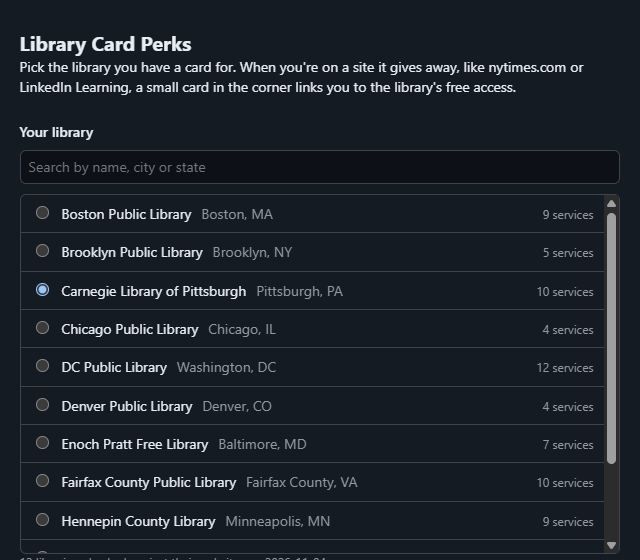
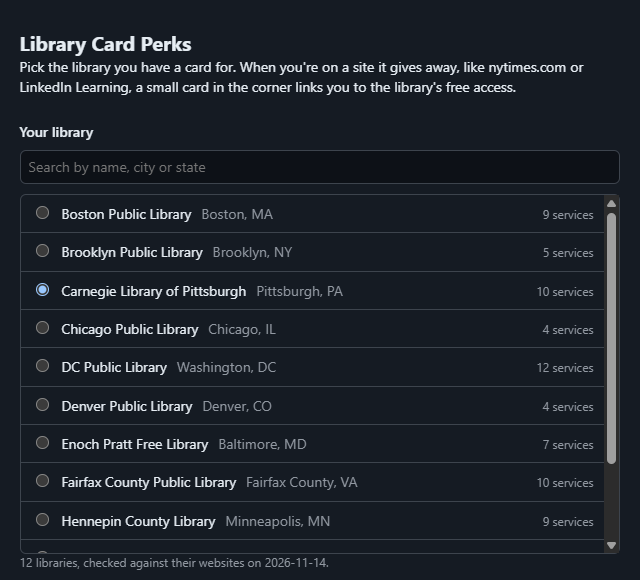
Fix the popup's site section, the daily card and three libraries
The popup now has activeTab, so it can read the address of the tab it
opens over. Before, "On this site" never appeared, and a site muted from
the card could not be turned back on. A new e2e check opens the popup
the way a toolbar click does.

The card checks again when Back or Forward restores a page, so the badge
comes back. It also waits until a prerendered page is opened, so a page
nobody saw no longer uses up the day's card. "Once a day" now follows
the local date instead of UTC midnight, which fell in the evening in US
time zones. Each site's day is stored under its own key, so two tabs
loading together no longer forget one site.

The library data is regenerated. Fairfax's homework help is Brainfuse
HelpNow, not VetNow. DC's New York Times and Washington Post entries
point at the Digital site passes instead of the article databases. San
Francisco now also reads its eLearning page and gains six services.

Smaller fixes: settings says "1 service", the dark save button is
readable, the settings screenshot is no longer cut off, the unused
text.js and today export are gone, the refresh workflow moves to
checkout and setup-node v7, and the README and package.json now ask for
Node 22, since npm test does not run on Node 20 on Windows.

Changed region(s): [[0.0312, 0.2125, 0.9688, 1.0], [0.0312, 0.0607, 0.9062, 0.1821]]

diff --git a/test/e2e/run.js b/test/e2e/run.js
@@ -86,7 +86,7 @@ try {
   check('picking it saves it', saved === 'Saved: Carnegie Library of Pittsburgh.', saved);
   if (screenshotDir) {
     await tab.evaluate(`(() => { const f = document.getElementById('filter'); f.value = ''; f.dispatchEvent(new Event('input')); document.getElementById('status').textContent = ''; })()`);
-    const clip = await tab.evaluate(`(() => { const r = document.body.getBoundingClientRect(); return { x: r.x, y: 0, width: r.width, height: 560, scale: 1 }; })()`);
+    const clip = await tab.evaluate(`(() => { const r = document.body.getBoundingClientRect(); return { x: r.x, y: 0, width: r.width, height: 580, scale: 1 }; })()`);
     const { data: png } = await tab.send('Page.captureScreenshot', { format: 'png', clip });
     writeFileSync(join(root, screenshotDir, 'settings.png'), Buffer.from(png, 'base64'));
   }
@@ -101,6 +101,19 @@ try {
     const { data: png } = await tab.send('Page.captureScreenshot', { format: 'png', clip: { x: 0, y: 0, width: 1100, height: 760, scale: 0.8 } });
     writeFileSync(join(root, screenshotDir, 'nytimes.png'), Buffer.from(png, 'base64'));
   }
+
+  // The popup, opened the way a click on the toolbar button opens it, knows which site it's over.
+  await tab.send('Page.bringToFront');
+  const { targetInfos: openTabs } = await chrome.send('Target.getTargets', { filter: [{ type: 'tab' }] });
+  await chrome.send('Extensions.triggerAction', { id: extensionId, targetId: openTabs.find((t) => t.url.includes('nytimes.com')).targetId });
+  const toolbarPopup = await waitFor(async () => (await chrome.send('Target.getTargets')).targetInfos.find((t) => t.url.endsWith('/popup/popup.html')), { label: 'toolbar popup' });
+  const { sessionId: popupSession } = await chrome.send('Target.attachToTarget', { targetId: toolbarPopup.targetId, flatten: true });
+  const here = await waitFor(async () => {
+    const { result } = await chrome.send('Runtime.evaluate', { expression: `[...document.querySelectorAll('#here li')].map((li) => li.firstChild.firstChild.textContent + ' -> ' + li.querySelector('a').href)`, returnByValue: true }, popupSession);
+    return result.value?.length ? result.value : null;
+  }, { label: 'popup on nytimes.com', timeout: 4000 }).catch(() => null);
+  check('popup on nytimes.com: what’s free on this site', JSON.stringify(here) === JSON.stringify(expected), `${JSON.stringify(here)} vs ${JSON.stringify(expected)}`);
+  await chrome.send('Target.closeTarget', { targetId: toolbarPopup.targetId });
 
   // Once a day per site.
   await tab.open('https://www.nytimes.com/2026/11/04/business/electricity-prices.html');
@@ -118,8 +131,8 @@ try {
   // The popup lists everything the card gets you. It also has the
   // extension's storage, used here to forget today's "already shown".
   const popup = await attach(`chrome-extension://${extensionId}/src/popup/popup.html`);
-  await waitFor(async () => popup.evaluate(`typeof chrome.storage?.local?.remove === 'function'`), { label: 'popup storage' });
-  await popup.evaluate(`chrome.storage.local.remove('shown')`);
+  await waitFor(async () => popup.evaluate(`typeof chrome.storage?.local?.clear === 'function'`), { label: 'popup storage' });
+  await popup.evaluate(`chrome.storage.local.clear()`);
   await tab.open('https://www.linkedin.com/learning/excel-essential-training');
   await sleep(1500);
   check('a muted site stays quiet on later visits', (await cardLines(tab.evaluate)) === null);
@@ -148,7 +161,7 @@ try {
     const text = await tab.evaluate(`document.getElementById('status').textContent`);
     return /Mt\. Lebanon/.test(text) ? text : null;
   }, { label: 'custom saved' }).catch(() => null);
-  check('a library typed in by hand saves', customSaved === 'Saved: Mt. Lebanon Public Library, 1 services.', customSaved);
+  check('a library typed in by hand saves', customSaved === 'Saved: Mt. Lebanon Public Library, 1 service.', customSaved);
   await tab.open('https://www.consumerreports.org/appliances/refrigerators/best-refrigerators');
   const cr = await waitFor(async () => cardLines(tab.evaluate), { label: 'card on Consumer Reports', timeout: 8000 }).catch(() => null);
   check('Consumer Reports: the typed-in link is used', cr?.[0] === 'Consumer Reports -> https://mtlebanon.example/consumer-reports', JSON.stringify(cr));

diff --git a/src/content/content.js b/src/content/content.js
@@ -68,7 +68,8 @@
   }
 
   async function check() {
-    if (location.pathname === lastPath) return;
+    // Chrome sometimes loads a page ahead of time, before anyone has opened it.
+    if (document.prerendering || location.pathname === lastPath) return;
     lastPath = location.pathname;
     try {
       const { library, offers = [] } = await chrome.runtime.sendMessage({ type: 'offers', hostname: location.hostname, pathname: location.pathname });
@@ -76,10 +77,11 @@
       const { hiddenSites = [] } = await chrome.storage.sync.get('hiddenSites');
       if (hiddenSites.includes(site)) return;
       // Once a day per site; the toolbar badge and the popup have it the rest of the time.
-      const day = new Date().toISOString().slice(0, 10);
-      const { shown = {} } = await chrome.storage.local.get('shown');
-      if (shown[site] === day) return;
-      await chrome.storage.local.set({ shown: { ...shown, [site]: day } });
+      const day = new Date().toDateString();
+      const key = `shown:${site}`;
+      const { [key]: last } = await chrome.storage.local.get(key);
+      if (last === day) return;
+      await chrome.storage.local.set({ [key]: day });
       render(library, offers);
     } catch {
       // The extension was reloaded or updated; this page's copy of the script is orphaned.
@@ -92,5 +94,13 @@
     clearTimeout(timer);
     timer = setTimeout(check, 500);
   }).observe(document.documentElement, { childList: true, subtree: true });
+  // A page loaded ahead of time gets its check when someone opens it.
+  document.addEventListener('prerenderingchange', check);
+  // Back and Forward bring a page back without running this again, and Chrome has cleared the badge by then.
+  addEventListener('pageshow', (event) => {
+    if (!event.persisted) return;
+    lastPath = null;
+    check();
+  });
   check();
 })();

diff --git a/test/build.test.js b/test/build.test.js
@@ -41,11 +41,24 @@ test('the shortest matching name wins over a sentence that mentions it', () => {
   assert.deepEqual(found.nyt, { label: 'New York Times', url: 'https://a.example/nyt' });
 });
 
+test('the pass for the paper’s own site beats the article database', () => {
+  const found = findResources(
+    [
+      ['New York Times', 'https://a.example/database'],
+      ['New York Times Digital', 'https://a.example/pass'],
+      ['New York Times Digital Microfilm', 'https://a.example/micro'],
+    ],
+    page,
+  );
+  assert.deepEqual(found.nyt, { label: 'New York Times Digital', url: 'https://a.example/pass' });
+});
+
 test('job help is not homework help, and a magazine pass is not hoopla', () => {
   const found = findResources(
     [
       ['Brainfuse JobNow', 'https://a.example/jobnow'],
       ['Brainfuse HelpNow', 'https://a.example/helpnow'],
+      ['Brainfuse VetNow', 'https://a.example/vetnow'],
       ['Hoopla Magazines BingePass', 'https://a.example/binge'],
     ],
     page,

diff --git a/src/shared.css b/src/shared.css
@@ -75,5 +75,5 @@ details { margin-top: 18px; }
 summary { cursor: pointer; }
 .fields { display: grid; grid-template-columns: 190px 1fr; gap: 8px 12px; align-items: center; margin-top: 12px; }
 .fields label { color: var(--muted); }
-button.save { margin-top: 12px; font: inherit; padding: 6px 14px; border-radius: 6px; border: 1px solid var(--line); background: var(--accent); color: #fff; cursor: pointer; }
+button.save { margin-top: 12px; font: inherit; padding: 6px 14px; border-radius: 6px; border: 1px solid var(--line); background: var(--accent); color: var(--bg); cursor: pointer; }
 #status { margin-top: 12px; color: var(--accent); min-height: 1.4em; }

diff --git a/src/lib/resources.js b/src/lib/resources.js
@@ -18,7 +18,7 @@ export const RESOURCES = {
   ancestry: { name: 'Ancestry Library Edition', match: /\bancestry\b/i, note: 'Usually only on library computers or library Wi-Fi.' },
   morningstar: { name: 'Morningstar Investment Research Center', match: /\bmorningstar\b/i },
   valueline: { name: 'Value Line', match: /\bvalue ?line\b/i },
-  tutor: { name: 'Live homework help', match: /\btutor\.com\b|\bbrainfuse\b|\bhelpnow\b/i, skip: /\bjob/i },
+  tutor: { name: 'Live homework help', match: /\btutor\.com\b|\bbrainfuse\b|\bhelpnow\b/i, skip: /\bjob|\bvet/i },
   pressreader: { name: 'PressReader', match: /\bpressreader\b/i },
 };
 

diff --git a/src/options/options.js b/src/options/options.js
@@ -61,7 +61,8 @@ async function init() {
     settings.library = 'custom';
     await chrome.storage.sync.set({ library: 'custom', custom: { name, links } });
     draw();
-    say(`Saved: ${name}, ${Object.keys(links).length} services.`);
+    const count = Object.keys(links).length;
+    say(`Saved: ${name}, ${count} ${count === 1 ? 'service' : 'services'}.`);
   });
 }
 

diff --git a/src/lib/perks.js b/src/lib/perks.js
@@ -29,5 +29,3 @@ export function offersFor(library, hostname, pathname) {
 
 // Everything the library gives away, in the order of RESOURCES.
 export const allOffers = (library) => (library ? Object.keys(RESOURCES).filter((key) => library.resources[key]).map((key) => offer(library, key)) : []);
-
-export const today = (now = new Date()) => now.toISOString().slice(0, 10);

diff --git a/README.md b/README.md
@@ -33,7 +33,7 @@ The list isn't typed in. `npm run data` reads each library's public list of onli
 
 Adding a library is one line in `scripts/libraries.json`.
 
-Everything runs locally. There's no server, it never sees your card number, and the only permission is `storage`.
+Everything runs locally. There's no server, it never sees your card number, and the only permissions are `storage` and `activeTab`, which lets the popup see which site you're on when you open it.
 
 ## Install
 
@@ -46,7 +46,7 @@ Not on the Chrome Web Store yet. To load it:
 ## Development
 
 ```bash
-npm test              # unit tests (Node 20+, no dependencies)
+npm test              # unit tests (Node 22+, no dependencies)
 npm run e2e           # loads the extension into headless Chrome against stand-in pages
 npm run data          # re-reads every library's list into data/libraries.json
 ```
